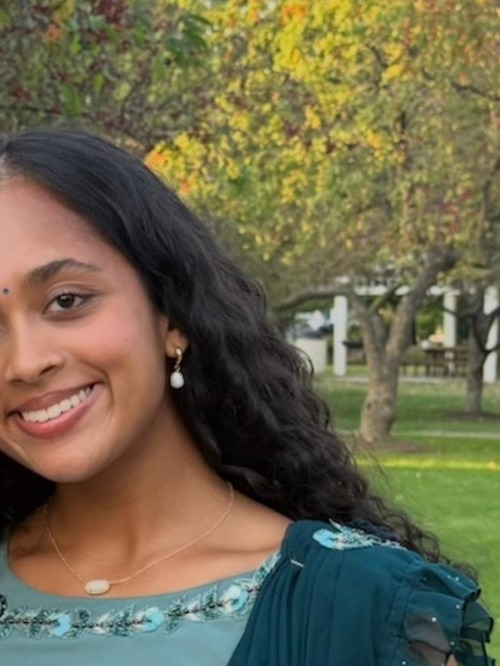
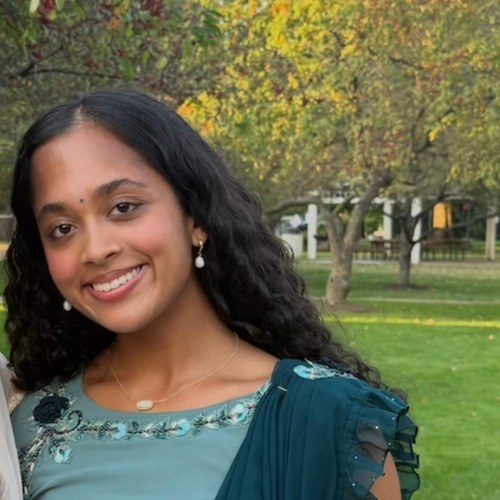
nritya v3 (total v15) test

diff --git a/program.html b/program.html
@@ -273,7 +273,7 @@
     <div class="item-body">
       <div class="item-title">Baaje re Muraliya</div>
       <div class="raagam-talam">Raag: Pilu &nbsp;|&nbsp; Taal: Keherva</div>
-      <p class="description">The first piece is a Kavit, a lyrical passage in Kathak with rhythmic syllables made up of poetic words and notations. This Kavit, written by Guru Pandit Divyang Vakil ji, is meant to express the mannerism of Lord Krishna. This piece is set in Teentaal, a 16-beat cycle. The second piece, Baaje Re Muraliya is a bhajan written by Shrinivas Khale released in 1985. A bhajan is a devotional song with religious themes or ideas, generally lyrical, and based in ragas. Baaje Re Muraliya celebrates Lord Krishna's enchanting presence, as he plays his flute, captivating Radha and the entire universe with his divine music. This piece is set in Keherva, an 8 beat cycle. Both of the pieces are set in raag Pilu and samay prahar dhin.</p>
+      <p class="description">The first piece is a Kavit, a lyrical passage in Kathak with rhythmic syllables made up of poetic words and notations. This Kavit, written by Guru Pandit Divyang Vakil ji, is meant to express the mannerism of Lord Krishna. This piece is set in Teentaal, a 16-beat cycle. The second piece, Baaje Re Muraliya is a bhajan written by Shrinivas Khale released in 1985. A bhajan is a devotional song with religious themes or ideas, generally lyrical, and based in ragas. Baaje Re Muraliya celebrates Lord Krishna's enchanting presence, as he plays his flute, captivating Radha and the entire universe with his divine music. This piece is set in Kaharva, an 8 beat cycle. Both of the pieces are set in raag Pilu and samay prahar dhin.</p>
       
     </div>
     <div class="cast">
@@ -308,7 +308,7 @@
     </div>
     <div class="cast">
       <div class="cast-block"><div class="cast-label">Dancers</div><div class="cast-names">Anshika Rath</div></div>
-      <div class="cast-block"><div class="cast-label">Musicians</div><div class="cast-names">Gayathri Seethamraju, Anurag Rakesh</div></div>
+      <div class="cast-block"><div class="cast-label">Musicians</div><div class="cast-names">Gayathri Seethamraju, Anurag Rakesh, Sara Elanchezhian</div></div>
       <div class="cast-block"><div class="cast-label">Featuring –<span class="featuring-name"> Keshav Coimbatore</span></div><div class="cast-names"></div></div>
     </div>
   </div>
@@ -367,7 +367,7 @@
     </div>
     <div class="cast">
       <div class="cast-block"><div class="cast-label">Dancers</div><div class="cast-names">Nritya</div></div>
-      <div class="cast-block"><div class="cast-label">Musicians</div><div class="cast-names">Gayathri Seethamraju, Anurag Rakesh, Sara Elanchezhian</div></div>
+      <div class="cast-block"><div class="cast-label">Musicians</div><div class="cast-names">Gayathri Seethamraju, Anurag Rakesh</div></div>
       <div class="cast-block"><div class="cast-label">Featuring –<span class="featuring-name"> Sri Lalit Subramanian</span></div><div class="cast-names"></div></div>
     </div>
   </div>

diff --git a/index.html b/index.html
@@ -250,14 +250,14 @@
 
     <div class="style-block">
       <div class="style-name">Kuchipudi</div>
-      <p class="style-body">Kuchipudi originated in Andhra Pradesh, its roots dating back to the Nāṭya Śāstra (written in 2nd century BCE).  Named after Kuchipudi, a village in AP, this dance was originally performed by Bhagavathalu (male dancers/singers/performers) who would travel from village to village and perform these dance-dramas. The modern development of Kuchipudi can be owed to Siddhendra Yogi, a famous poet whose inspiration for his work was said to come from Lord Krishna himself in his dream. With inspiration from the Nāṭya Śāstra as well as temple dances, he composed Bhamakalapam, a well known Yakshaganam, which he asked the Bhagavathalu to premiere. This tradition continued until Vedantam Lakshminarayana Sastri introduced female dancers and solo performances to the art form, revitalizing it into what Kuchipudi is today. <br/><br/>Consisting of nritta (thiillanas, jathiswarams), nritya (padams, shabdams, javalis, tarangam) and natya (parinayams, kalapams, daruvus, and other yakshaganas) used in retellings of daily life or epics of gods, Kuchipudi also has a few unique components i.e., Vachika Abhinaya - where the dancer speaks to the audience (famous in Bhamakalapam) and Tarangam - where the dancer dances on a brass plate, signifying complete untiy between self and Bhudevi.</p>
+      <p class="style-placeholder">Coming soon — watch this space!</p>
     </div>
 
     <hr class="divider"/>
 
     <div class="style-block">
       <div class="style-name">Odissi</div>
-      <p class="style-body">Odissi dance is one of the oldest documented dance styles in India, with roots traced from ancient cave carvings at Udayagiri and Khandagiri to temple sculptures in Odisha dating back to the 9th century. The current form of Odissi dance originated in the Jagannath Temple in Puri, where temple dancers known as Maharis offered their devotion. They would dance in the morning with just a drummer and sing at night, combining hand gestures with storytelling and lyrical movement. Young boys known as Gotipuas joined them later and carried the tradition forward, introducing dynamic and acrobatic elements while preserving its grace. Today’s performance draws from the Mahari lineage, particularly the style of Adiguru Pankaj Charan Das, reflecting the origins of Odissi as a living prayer.</p>
+      <p class="style-placeholder">Coming soon — watch this space!</p>
     </div>
 
   </div>
